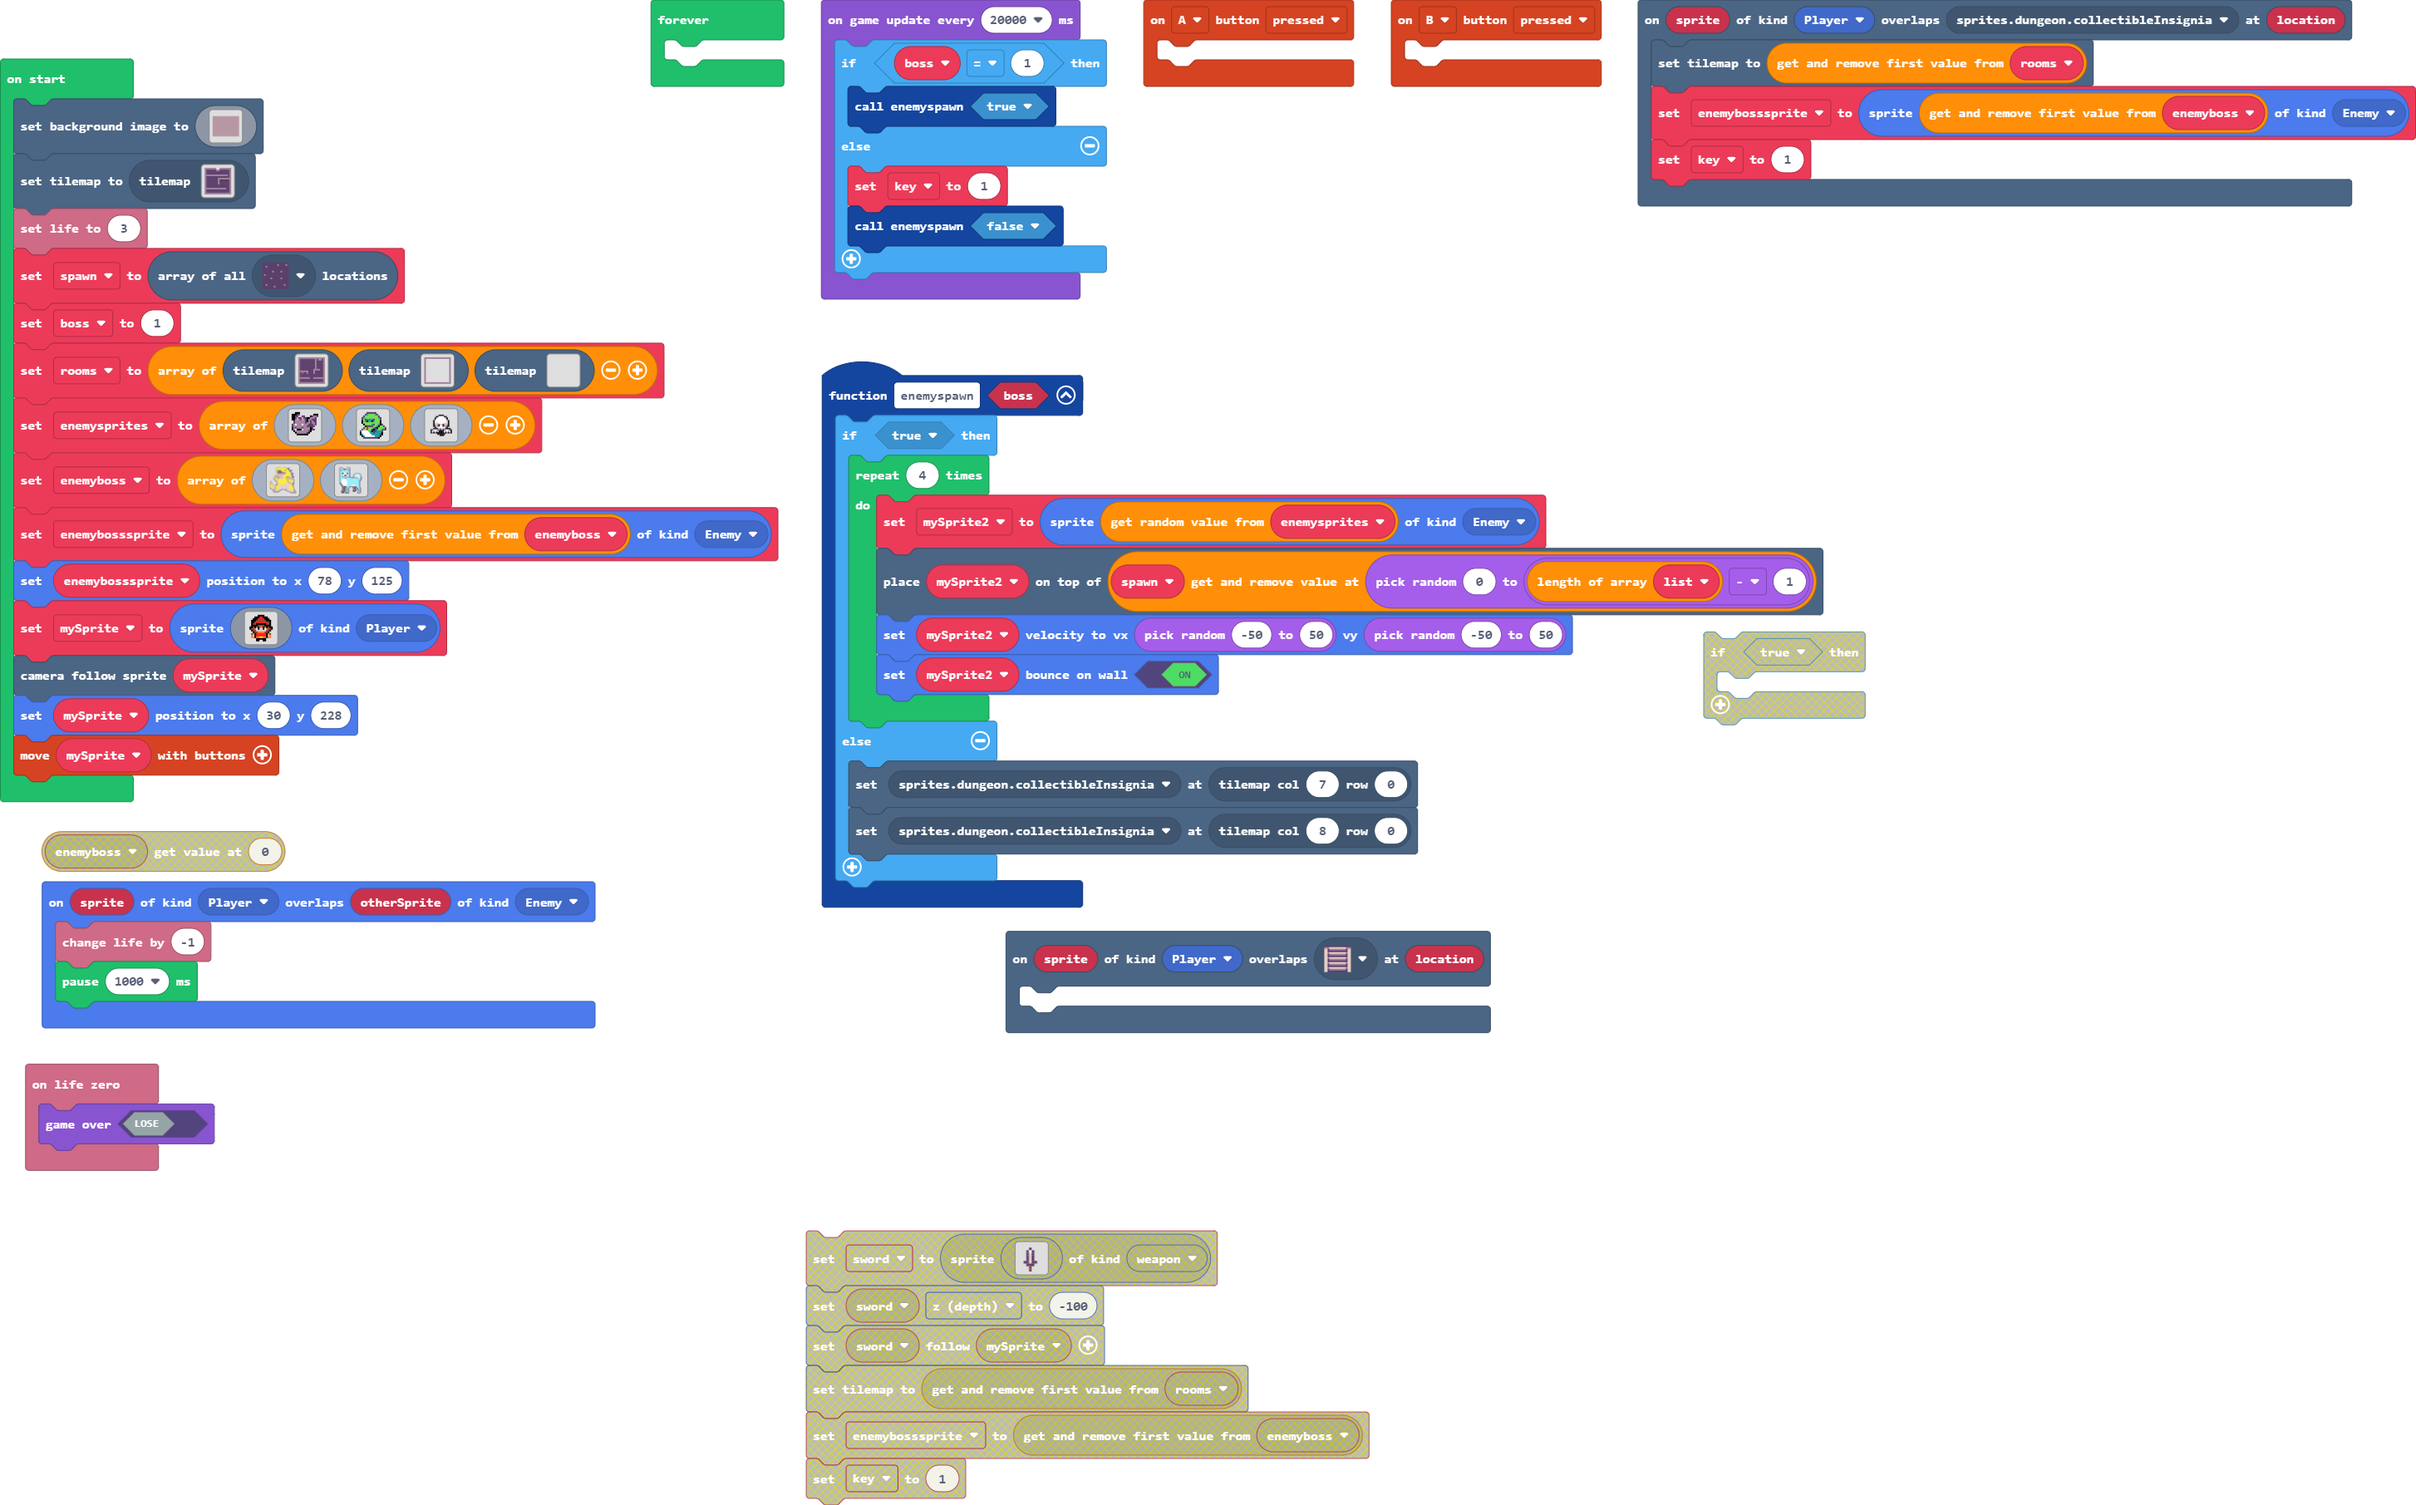
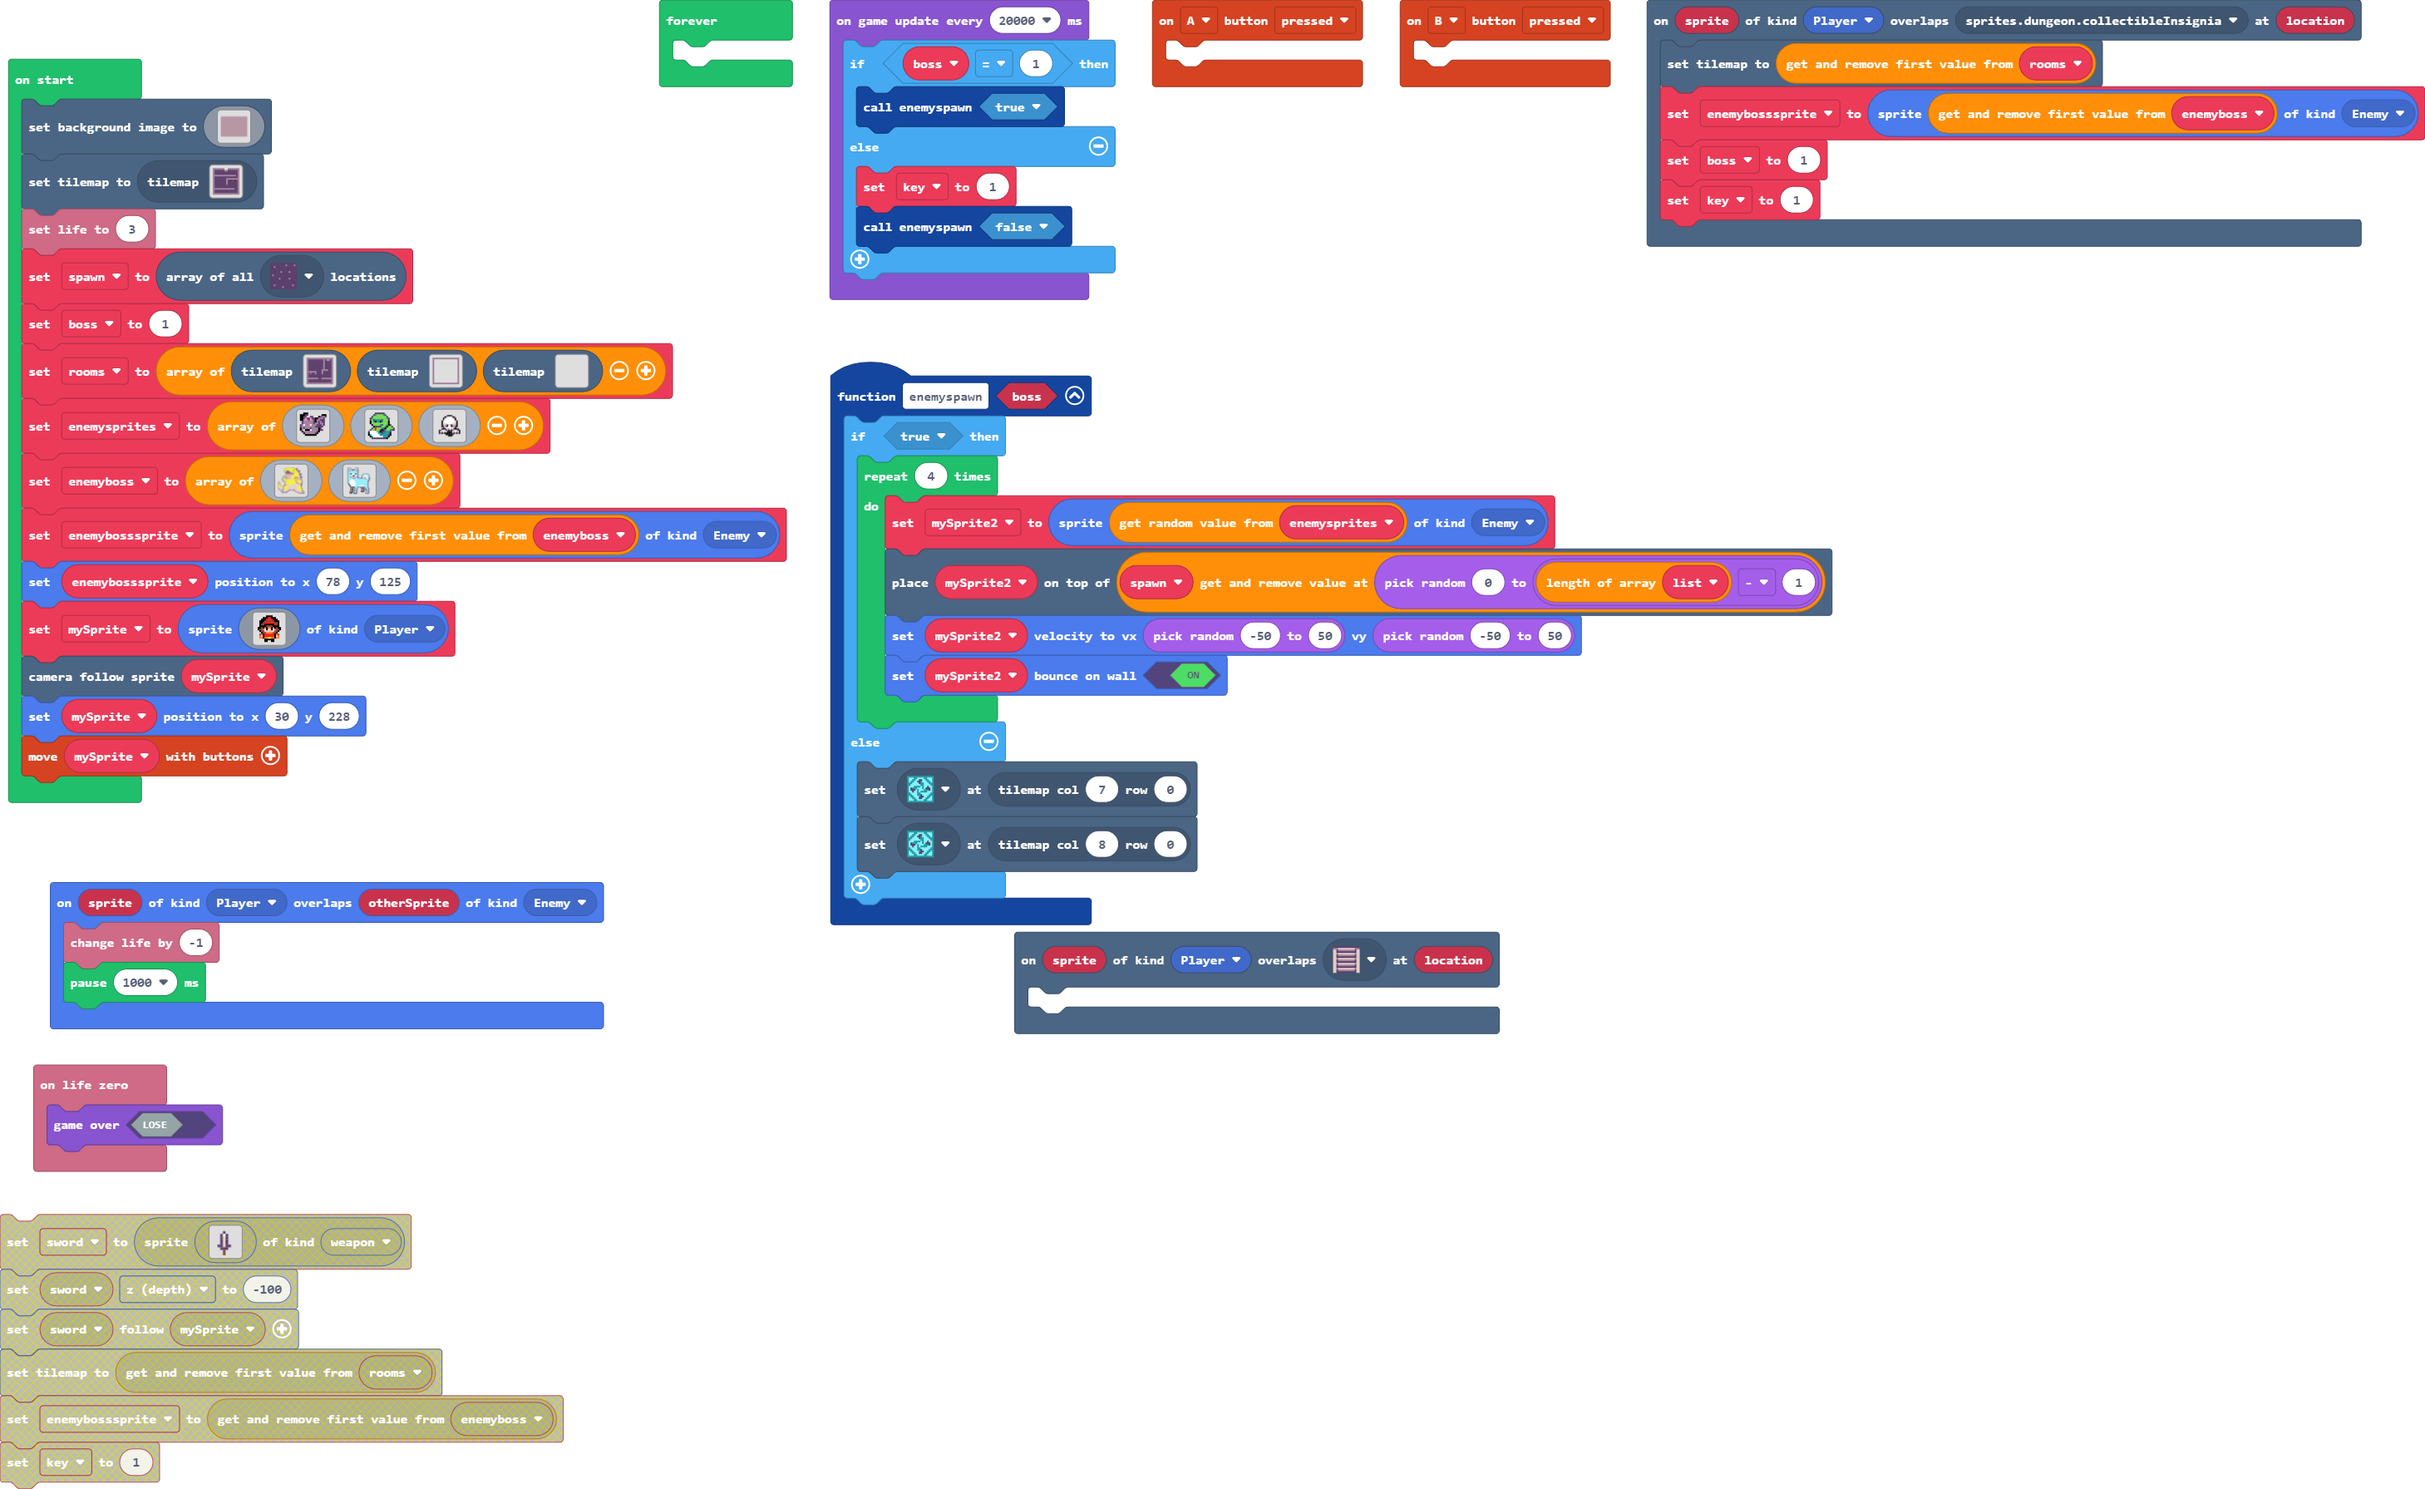
Update main.blocks, main.ts

Changed region(s): [[0.0, 0.0307, 0.774, 1.0], [0.2477, 0.0, 1.0, 0.215], [0.3096, 0.7984, 0.5882, 1.0]]

diff --git a/main.ts b/main.ts
@@ -27,6 +27,7 @@ info.onLifeZero(function () {
 scene.onOverlapTile(SpriteKind.Player, sprites.dungeon.collectibleInsignia, function (sprite, location) {
     tiles.setCurrentTilemap(rooms.shift())
     enemybosssprite = sprites.create(enemyboss.shift(), SpriteKind.Enemy)
+    boss = 1
     key = 1
 })
 scene.onOverlapTile(SpriteKind.Player, sprites.dungeon.stairSouth, function (sprite, location) {
@@ -42,6 +43,7 @@ let enemybosssprite: Sprite = null
 let enemyboss: Image[] = []
 let enemysprites: Image[] = []
 let rooms: tiles.TileMapData[] = []
+let boss = 0
 let spawn: tiles.Location[] = []
 scene.setBackgroundImage(img`
     bbbbbbbbbbbbbbbbbbbbbbbbbbbbbbbbbbbbbbbbbbbbbbbbbbbbbbbbbbbbbbbbbbbbbbbbbbbbbbbbbbbbbbbbbbbbbbbbbbbbbbbbbbbbbbbbbbbbbbbbbbbbbbbbbbbbbbbbbbbbbbbbbbbbbbbbbbbbbbbb
@@ -168,7 +170,7 @@ scene.setBackgroundImage(img`
 tiles.setCurrentTilemap(tilemap`startingroom`)
 info.setLife(3)
 spawn = tiles.getTilesByType(sprites.dungeon.darkGroundCenter)
-let boss = 1
+boss = 1
 rooms = [tilemap`room2`, tilemap`room3`, tilemap`room4`]
 enemysprites = [img`
     . . f f f . . . . . . . . . . . 
